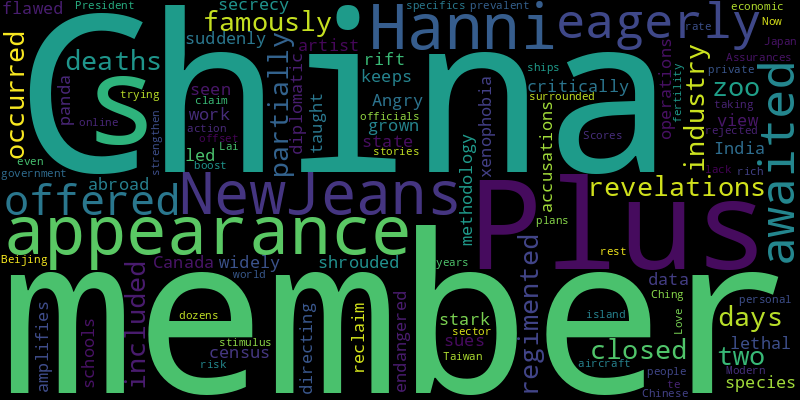
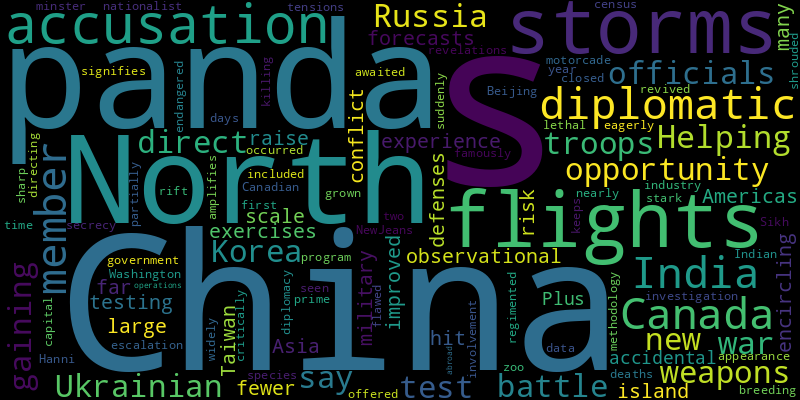
chore(bot): 🤖 auto commit

diff --git a/README.md b/README.md
@@ -2,41 +2,41 @@
 Auto RSS New York Times and Generate Word Cloud
 
 ## New York Times Global News
+* The attacks, which also hit southern Lebanon, came after the United States expressed concerns about the bombardment of the Lebanese capital. Israel’s military said it had aimed at Hezbollah targets.
+* Schools, clubs and parks have become places of refuge as the displaced seek safety amid Israeli bombings.
+* China’s large-scale military exercises are encircling Taiwan and testing the island’s defenses. They also raise the risk of conflict, accidental or otherwise.
+* Brazil’s top court expanded its power to protect democracy. But some are wondering whether the court now represents the threat.
+* Helping Russia in the war is an opportunity for North Korea to test its new weapons, and Ukrainian officials say the North’s troops are also gaining direct battle experience.
+* The panda census methodology is widely seen as flawed, and China keeps the data shrouded in secrecy.
 * The United Nations says “the targeting of health and relief operations is broadening” in Lebanon. Hospitals say they have been forced to close or are struggling to operate.
-* The diplomatic rift has suddenly grown more stark as Canada amplifies its accusations that India is directing lethal operations abroad.
-* Top energy officials have fallen and key energy policy decisions have been delayed because of political calculations, lawmakers and experts say, costing Ukraine valuable time in preparing for winter.
 * A generation that fled political persecution and economic hardship is finding a way to laugh amid the pain.
-* The plan was heralded by the Italian government as an innovative model to manage and deter immigration, and criticized by human rights groups.
-* Israel has one of the world’s best defenses against missiles and rockets, but struggles to detect slower-moving unmanned aircraft, experts said.
-* Israeli soldiers and Palestinian former detainees say troops have regularly forced captured Gazans to carry out life-threatening tasks, including inside Hamas tunnels.
-* The Canadian police said the Indian government had orchestrated homicides and extortion in Canada to intimidate Sikh separatists. India, in return, kicked out Canadian diplomats.
-* The ruling sets the stage for yet another trial related to the scandal involving Silvio Berlusconi, the former prime minister of Italy who died last year.
-* Moscow’s forces have been recapturing some villages and land taken in a Ukrainian incursion into Russia. The advances could undermine Kyiv’s hopes of pushing Russia to the negotiating table.
+* The diplomatic rift has suddenly grown more stark as Canada amplifies its accusations that India is directing lethal operations abroad.
+* The Canadian prime minster’s accusation of Indian government involvement in the killing of a Sikh nationalist signifies a sharp escalation in diplomatic tensions between India and Canada.
 
 ![Global](./global.png)
 ## New York Times United States News
-* William Jacob Parsons was arrested and charged in North Carolina after he was found with a handgun and a rifle at a supermarket where a federal aid vehicle was parked.
-* Weather experts say the spiraling falsehoods, especially claims that the government is creating or controlling storms, have gotten out of hand.
-* Several politicians and relatives, including her son Robert F. Kennedy Jr. and his wife, the actress Cheryl Hines, were in attendance.
-* Door County, Wis., has picked the presidential winner since 1996. Last time, the margin was 292 votes, so the campaigns are trying to reach every household.
-* A political nonprofit organization called Building America’s Future has raised and spent more than $100 million over the past four years.
-* Democrats have long won by wide margins in Detroit, but some party leaders said the vice president needed to do more to counter an assertive Trump campaign.
-* The former president’s sweeping immigration proposals face daunting challenges, but voters still trust his positions more than his opponent’s.
-* The sheer amount of money Kamala Harris has raised in her run for president has had unintended consequences.
-* It was a strange end to a Pennsylvania event that started with a Q&amp;A and ended after Donald Trump fired up his campaign playlist.
-* At a rally in Pennsylvania, in a swing county in a swing state, Vice President Kamala Harris played clips of Donald Trump describing critics as an “enemy from within,” drawing jeers from her crowd.
+* The storm made landfall Wednesday evening, devastating an area still recovering from Hurricane Helene, which tore through Florida’s western coast two weeks ago.
+* Lancaster County, famous for its Amish communities, regularly votes Republican. But the demographics are shifting here and throughout the state.
+* Search and rescue teams are still looking for the missing, officials said, with 95 deaths already attributed to the storm’s wrath in the state.
+* A group of survivors and relatives of victims said the military failed to respond to warning signs from the gunman, an Army Reserve grenade instructor, ahead of the shooting.
+* For some, Donald J. Trump’s incessant attacks on immigrants are too much. Still, many appear prepared to look past his escalations and back a candidate they believe will help their livelihoods.
+* The visit will take place near the Revolutionary War site where George Washington crossed the Delaware.
+* Senator Ted Cruz and his Democratic challenger, Representative Colin Allred, packed a lot of attacks, mostly about policy, into a quick and combative hourlong debate.
+* Three people — Elon Musk, Miriam Adelson and Dick Uihlein — put a combined $220 million into groups supporting Donald J. Trump in July, August and September.
+* Prosecutors said Cornell Moore and Keith Russell were involved in a murder-for-hire enterprise with a gang operating in Baltimore City and elsewhere in Maryland.
+* The ruling was confined to the current election, halting the measure from going into effect for 2024 while the judge further weighs its merits in the future.
 
 ![US](./usnews.png)
 ## New York Times Asia News
+* Helping Russia in the war is an opportunity for North Korea to test its new weapons, and Ukrainian officials say the North’s troops are also gaining direct battle experience.
+* While observational flights have improved forecasts for many storms in the Americas, such flights have been far fewer for storms that have hit Asia.
+* China’s large-scale military exercises are encircling Taiwan and testing the island’s defenses. They also raise the risk of conflict, accidental or otherwise.
+* Plus, an investigation into China’s panda breeding program.
+* A motorcade through the capital revived “panda diplomacy” between Washington and Beijing for the first time in nearly a year.
+* The Canadian prime minster’s accusation of Indian government involvement in the killing of a Sikh nationalist signifies a sharp escalation in diplomatic tensions between India and Canada.
 * The appearance by Hanni, a member of NewJeans, was eagerly awaited, but she offered few revelations about her famously regimented industry.
 * The zoo partially closed after the deaths, which occurred over two days and included members of a critically endangered species.
 * The panda census methodology is widely seen as flawed, and China keeps the data shrouded in secrecy.
 * The diplomatic rift has suddenly grown more stark as Canada amplifies its accusations that India is directing lethal operations abroad.
-* Plus, an artist sues to reclaim his work.
-* Angry at what they view as China’s state-led xenophobia, taught in schools and prevalent online, some people are taking action, even at personal risk.
-* Assurances from government officials on plans to strengthen the private sector offset a lack of specifics about economic stimulus.
-* Scores of Chinese aircraft and dozens of ships surrounded Taiwan, after President Lai Ching-te rejected Beijing’s claim over the island.
-* Plus, 200,000 stories of Modern Love.
-* Japan has been trying to boost its fertility rate for 30 years. Now the rest of the rich world is, too.
 
 ![Asian](./asian.png)

diff --git a/archive/2024-10-15.md b/archive/2024-10-15.md
@@ -1,0 +1,42 @@
+# NewsArchive
+Auto RSS New York Times and Generate Word Cloud
+
+## New York Times Global News
+* The United Nations says “the targeting of health and relief operations is broadening” in Lebanon. Hospitals say they have been forced to close or are struggling to operate.
+* The diplomatic rift has suddenly grown more stark as Canada amplifies its accusations that India is directing lethal operations abroad.
+* Top energy officials have fallen and key energy policy decisions have been delayed because of political calculations, lawmakers and experts say, costing Ukraine valuable time in preparing for winter.
+* A generation that fled political persecution and economic hardship is finding a way to laugh amid the pain.
+* The plan was heralded by the Italian government as an innovative model to manage and deter immigration, and criticized by human rights groups.
+* Israel has one of the world’s best defenses against missiles and rockets, but struggles to detect slower-moving unmanned aircraft, experts said.
+* Israeli soldiers and Palestinian former detainees say troops have regularly forced captured Gazans to carry out life-threatening tasks, including inside Hamas tunnels.
+* The Canadian police said the Indian government had orchestrated homicides and extortion in Canada to intimidate Sikh separatists. India, in return, kicked out Canadian diplomats.
+* The ruling sets the stage for yet another trial related to the scandal involving Silvio Berlusconi, the former prime minister of Italy who died last year.
+* Moscow’s forces have been recapturing some villages and land taken in a Ukrainian incursion into Russia. The advances could undermine Kyiv’s hopes of pushing Russia to the negotiating table.
+
+![Global](./global.png)
+## New York Times United States News
+* William Jacob Parsons was arrested and charged in North Carolina after he was found with a handgun and a rifle at a supermarket where a federal aid vehicle was parked.
+* Weather experts say the spiraling falsehoods, especially claims that the government is creating or controlling storms, have gotten out of hand.
+* Several politicians and relatives, including her son Robert F. Kennedy Jr. and his wife, the actress Cheryl Hines, were in attendance.
+* Door County, Wis., has picked the presidential winner since 1996. Last time, the margin was 292 votes, so the campaigns are trying to reach every household.
+* A political nonprofit organization called Building America’s Future has raised and spent more than $100 million over the past four years.
+* Democrats have long won by wide margins in Detroit, but some party leaders said the vice president needed to do more to counter an assertive Trump campaign.
+* The former president’s sweeping immigration proposals face daunting challenges, but voters still trust his positions more than his opponent’s.
+* The sheer amount of money Kamala Harris has raised in her run for president has had unintended consequences.
+* It was a strange end to a Pennsylvania event that started with a Q&amp;A and ended after Donald Trump fired up his campaign playlist.
+* At a rally in Pennsylvania, in a swing county in a swing state, Vice President Kamala Harris played clips of Donald Trump describing critics as an “enemy from within,” drawing jeers from her crowd.
+
+![US](./usnews.png)
+## New York Times Asia News
+* The appearance by Hanni, a member of NewJeans, was eagerly awaited, but she offered few revelations about her famously regimented industry.
+* The zoo partially closed after the deaths, which occurred over two days and included members of a critically endangered species.
+* The panda census methodology is widely seen as flawed, and China keeps the data shrouded in secrecy.
+* The diplomatic rift has suddenly grown more stark as Canada amplifies its accusations that India is directing lethal operations abroad.
+* Plus, an artist sues to reclaim his work.
+* Angry at what they view as China’s state-led xenophobia, taught in schools and prevalent online, some people are taking action, even at personal risk.
+* Assurances from government officials on plans to strengthen the private sector offset a lack of specifics about economic stimulus.
+* Scores of Chinese aircraft and dozens of ships surrounded Taiwan, after President Lai Ching-te rejected Beijing’s claim over the island.
+* Plus, 200,000 stories of Modern Love.
+* Japan has been trying to boost its fertility rate for 30 years. Now the rest of the rich world is, too.
+
+![Asian](./asian.png)
